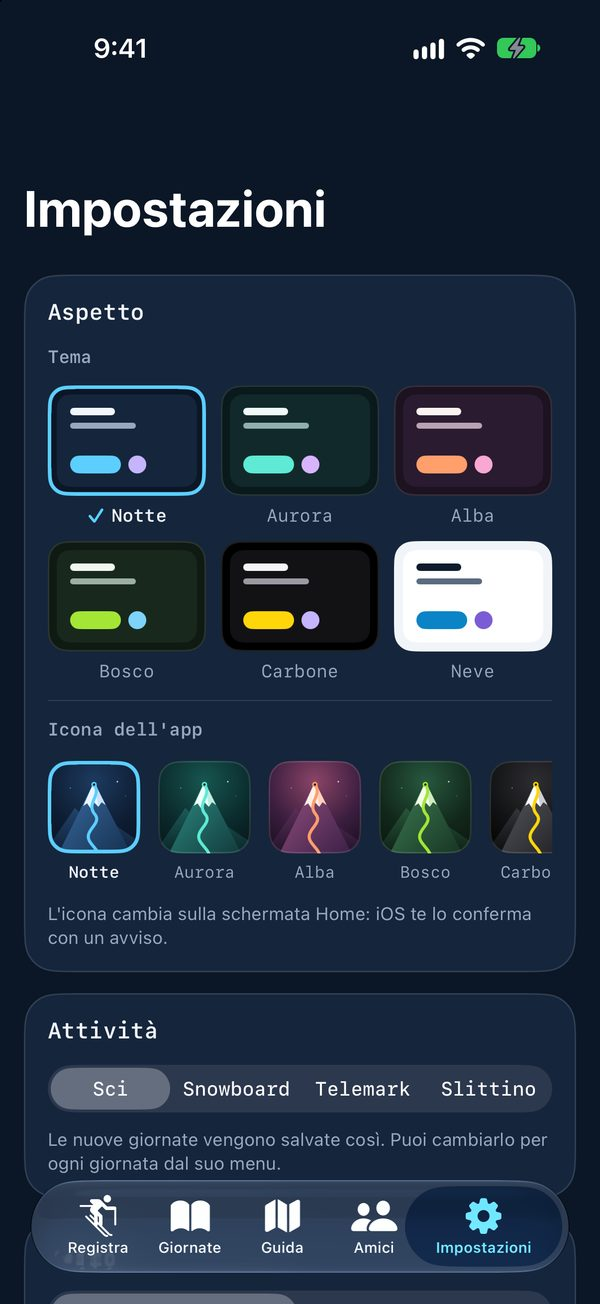
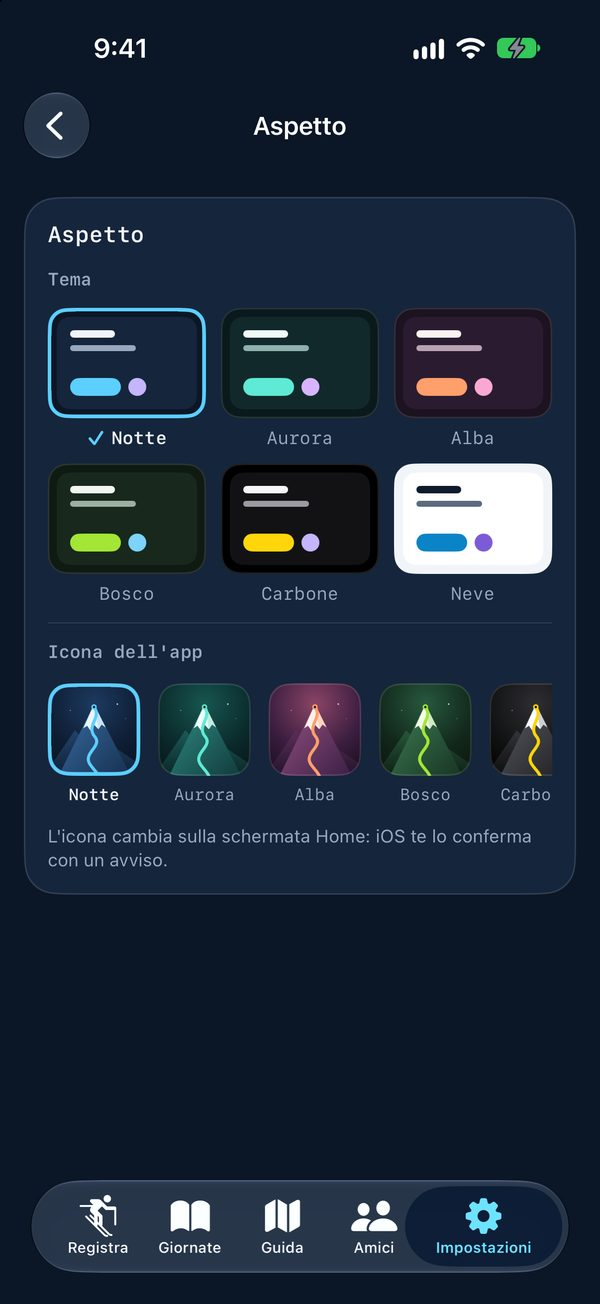
Rows of the settings all alike; pictures of the settings and the profile in the README

diff --git a/Sources/UI/SettingsView.swift b/Sources/UI/SettingsView.swift
@@ -171,24 +171,27 @@ struct MenuRow: View {
 
     var body: some View {
         NavigationLink(value: page) {
-            VStack(spacing: 0) {
-                HStack(spacing: 14) {
-                    Image(systemName: symbol)
-                        .font(.footnote.weight(.semibold))
-                        .foregroundStyle(.white)
-                        .frame(width: 34, height: 34)
-                        .background(color.gradient, in: RoundedRectangle(cornerRadius: 9, style: .continuous))
-                        .accessibilityHidden(true)
-                    Text(LocalizedStringKey(title)).font(.body).foregroundStyle(Theme.text).lineLimit(1).minimumScaleFactor(0.8)
-                    Spacer(minLength: 6)
-                    if let detail {
-                        Text(detail).font(.subheadline).foregroundStyle(Theme.sub).lineLimit(1)
-                    }
-                    Image(systemName: "chevron.right").font(.caption.weight(.bold)).foregroundStyle(Theme.sub)
+            HStack(spacing: 14) {
+                Image(systemName: symbol)
+                    .font(.footnote.weight(.semibold))
+                    .foregroundStyle(.white)
+                    .frame(width: 34, height: 34)
+                    .background(color.gradient, in: RoundedRectangle(cornerRadius: 9, style: .continuous))
+                    .accessibilityHidden(true)
+                Text(LocalizedStringKey(title)).font(.body).foregroundStyle(Theme.text).lineLimit(1)
+                    .layoutPriority(1)
+                Spacer(minLength: 6)
+                if let detail {
+                    Text(detail).font(.subheadline).foregroundStyle(Theme.sub).lineLimit(1)
                 }
-                .padding(.vertical, 12)
+                Image(systemName: "chevron.right").font(.caption.weight(.bold)).foregroundStyle(Theme.sub)
+            }
+            .padding(.vertical, 12)
+            .frame(maxWidth: .infinity, alignment: .leading)
+            // The line under it starts where the words do.
+            .overlay(alignment: .bottom) {
                 if !last {
-                    Divider().overlay(Theme.line).padding(.leading, 48)
+                    Rectangle().fill(Theme.line).frame(height: 1).padding(.leading, 48)
                 }
             }
             .contentShape(Rectangle())

diff --git a/README.md b/README.md
@@ -49,6 +49,8 @@ Premi **Inizia** ai piedi della pista, metti l'iPhone in tasca e scia. Ski Apex 
   <img src="docs/screenshots/iphone-heat.jpg" width="190" alt="La mappa di calore">
   <img src="docs/screenshots/iphone-friends.jpg" width="190" alt="La classifica con gli amici">
   <img src="docs/screenshots/iphone-share.jpg" width="190" alt="L'immagine da condividere">
+  <img src="docs/screenshots/iphone-settings.jpg" width="190" alt="Le impostazioni">
+  <img src="docs/screenshots/iphone-profile.jpg" width="190" alt="Il profilo, con la foto che vedono gli amici">
   <img src="docs/screenshots/iphone-looks.jpg" width="190" alt="I temi e le icone dell'app">
   <img src="docs/screenshots/iphone-light.jpg" width="190" alt="Una giornata con il tema chiaro">
 </p>
